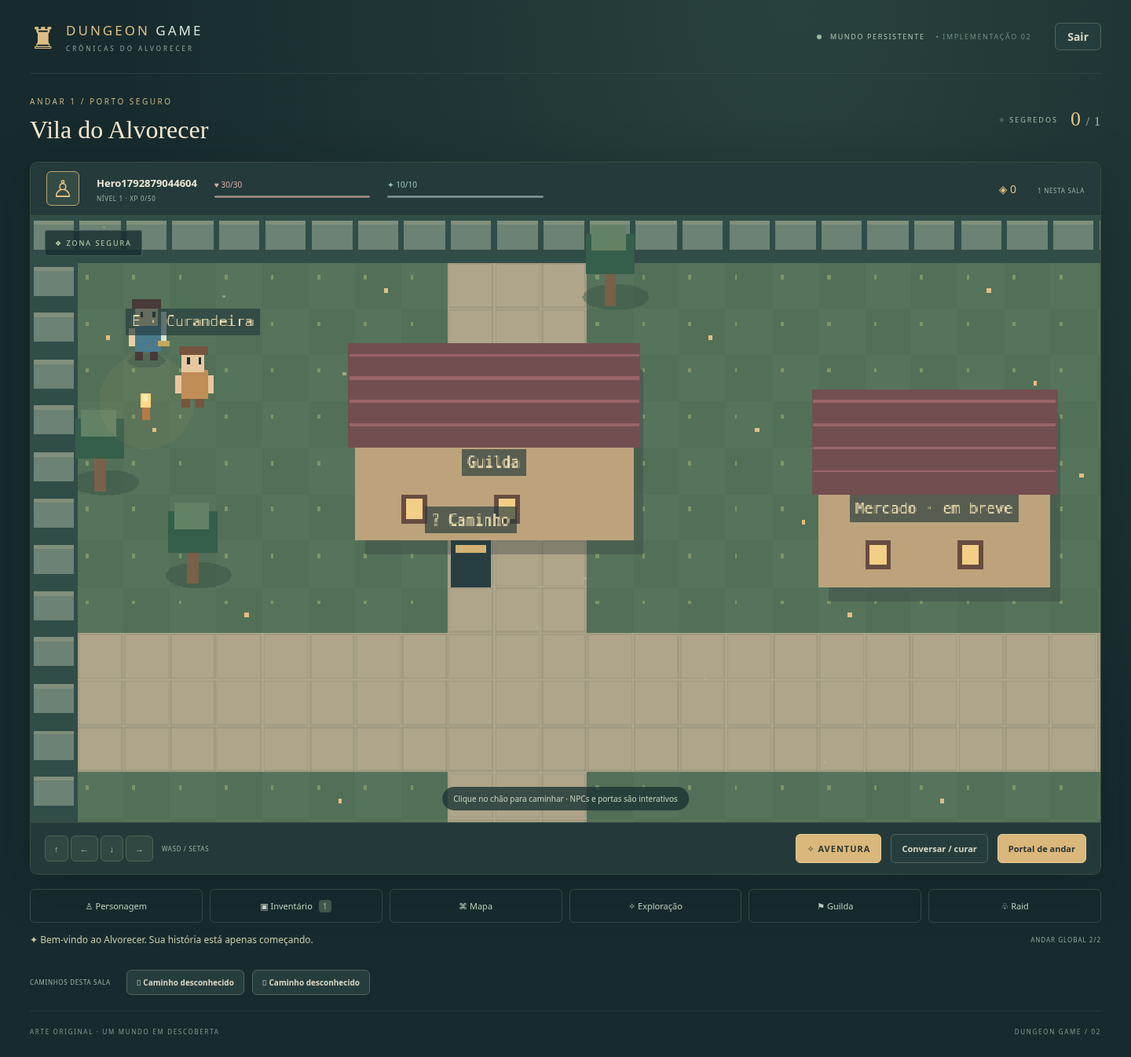
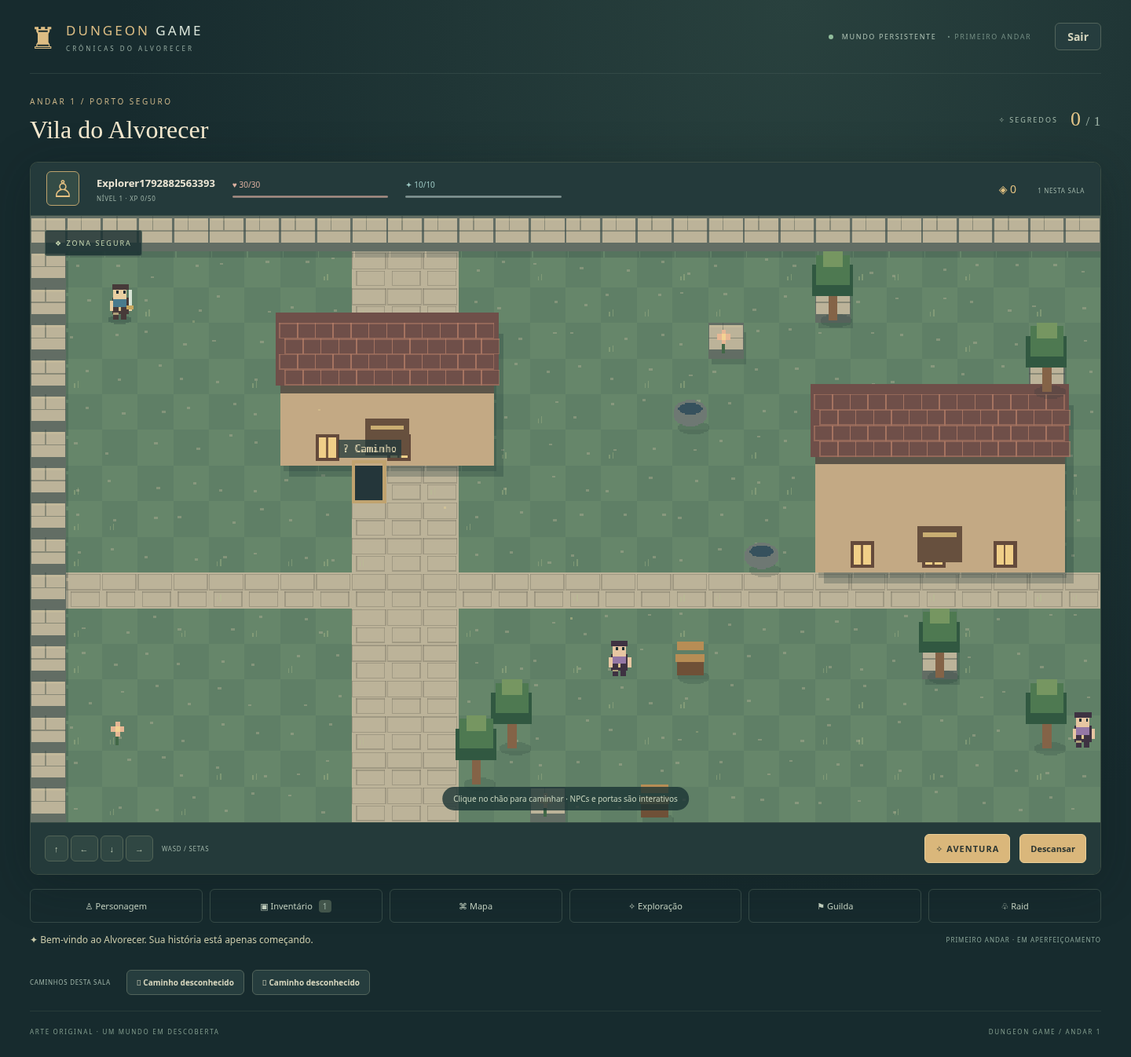
docs: document first-floor balance, lifecycle and verified screenshots

diff --git a/README.md b/README.md
@@ -1,31 +1,41 @@
-# Torre RPG
+# Dungeon Game — primeiro andar
 
-Protótipo de RPG persistente com FastAPI, PostgreSQL, React/TypeScript, Phaser e um cliente Discord. Arte original desenhada com formas pixeladas. Um backend controla todas as regras e os dois clientes consultam os mesmos personagens.
+RPG persistente com FastAPI, PostgreSQL, React/TypeScript, Phaser e cliente Discord. Esta versão aperfeiçoa exclusivamente o **primeiro andar**. Não expande andares superiores nem raids. Arte e sprites originais gerados pelo projeto, sem assets das referências comerciais.
 
-## Windows: executar
+## Windows: executar ou atualizar
 
-Instale Git e Docker Desktop com WSL2 e Docker Compose. No PowerShell:
+Com Git e Docker Desktop/WSL2 instalados, dentro do checkout:
 
 ```powershell
-git clone https://github.com/Lucassilvatech/Dungeon-game.git
-cd Dungeon-game
-Copy-Item .env.example .env
+git pull origin main
+if (!(Test-Path .env)) { Copy-Item .env.example .env }
 docker compose up --build -d
 ```
 
-Abra `http://localhost:8080`. API e documentação: `http://localhost:8000/docs`.
+Para uma instalação nova: clone `https://github.com/Lucassilvatech/Dungeon-game.git` e entre em `Dungeon-game` antes desses comandos.
 
-Novos personagens começam na **Vila do Alvorecer**, uma cidade segura. Personagens da versão 1 mantêm posição, XP, moedas, equipamento e combate; o antigo primeiro mapa passa a ser o Bosque das Lanternas. Não apague o volume para atualizar.
+Frontend: `http://localhost:8080`. API/documentação: `http://localhost:8000/docs`.
 
-1. Crie conta/personagem e equipe a espada na aba **Inventário**.
-2. Use WASD/setas ou clique no chão. Selecione portas, NPCs e inimigos no mapa ou os caminhos abaixo dele: o personagem caminha até o destino e o servidor valida cada passo.
-3. Entre na Guilda pela porta ao sul do prédio central. Converse com a curandeira e siga para o pátio de treinamento. O boneco não concede XP, itens ou moedas.
-4. Volte à cidade e siga pelo caminho leste. Explore Bosque → Trilha → Clareira → Santuário. Selecionar o chefe apresenta um aviso; o combate só começa após confirmar a tentativa solo.
-5. Use **Aventura** na cidade ou nas trilhas. O servidor escolhe uma sala procedural persistente ou a descoberta de uma entrada secreta. A chance padrão do segredo é 25%; não há garantia por tentativa.
-6. Depois da descoberta, a aba **Exploração** permite voltar à masmorra. Sua dificuldade é independente do andar. Derrota preserva pertences e descobertas; a primeira conclusão tem recompensa maior, e repetições não dão mais XP/loot relevante.
-7. Volte ao NPC da Guilda/curandeira e use a aba **Guilda** para reivindicar moedas do Tesouro. Derrotar o chefe de andar libera globalmente a cidade do segundo andar, acessível pelo portal da cidade.
+Não apague `.env` nem use `docker compose down -v` para atualizar. O startup aplica as migrações e faz seed idempotente; progresso e volume existente são preservados. A senha de exemplo é somente para desenvolvimento. A URL atual espera senha de banco sem caracteres reservados; use uma senha alfanumérica forte no deploy.
 
-Outros navegadores conectados na mesma sala aparecem via WebSocket. A aba **Mapa** mostra apenas salas e conexões descobertas. A aba **Raid** mantém convites e participantes; combate cooperativo ainda não está disponível.
+## Jogar no primeiro andar
+
+1. Crie conta/personagem; equipe a espada na aba **Inventário**.
+2. Use WASD/setas ou clique em chão, inimigo, NPC ou saída. As ações caminham visualmente até o destino, com passos validados no servidor.
+3. A cidade é segura. Entre na Guilda pela porta abaixo do prédio inicial. A **recepcionista**, atrás do balcão, recebe os registros de monstros; não há mais curadora espalhada nas salas. Use **Descansar** na cidade/Guilda para restaurar vida e energia.
+4. A Guilda leva ao pátio de treinamento. O boneco tem combate real, mas não dá XP, itens nem moedas. **Novo exercício** cria outra instância de treino de forma explícita.
+5. Siga os caminhos Cidade → Bosque → Trilha → Clareira. Agora há vários inimigos, com identidade, vida, movimento e morte persistentes. Um slime de nível 1 exige quatro ataques básicos de um iniciante com a espada. Defesas, habilidades e descanso importam.
+6. Inimigo derrotado executa morte/fade e desaparece. Não pode ser combatido novamente na mesma instância, nem ao recarregar. XP e loot são confirmados uma vez; moedas ficam como recompensa pendente.
+7. Volte à Guilda, aproxime-se da recepcionista e escolha **RESGATAR RECOMPENSAS**. A tela agrupa os registros por monstro e mostra o total. O Tesouro é debitado atomicamente e os registros são marcados como pagos.
+8. **Aventura** cria uma nova expedição procedural, com seed e tema próprios. Pode primeiro revelar um segredo existente. Expedições consecutivas usam temas diferentes; recarregar a mesma sala conserva as baixas. Uma nova aventura cria outros inimigos, não ressuscita os anteriores.
+
+Materiais se agrupam em stacks com limite por definição (cristais: 99). Equipamentos mantêm IDs individuais. O inventário mostra quantidade, capacidade e descrição no tooltip.
+
+## Conteúdo
+
+Cidade 52×36; Guilda 38×28; treinamento 32×24; salas comuns 34×26; combate 40×28. Expedições variam entre 32×24 e 44×30, com pedra/musgo, ruínas/vegetação, cristais/ossos ou entreposto de madeira. O chefe e o segredo existentes permanecem; a prioridade desta entrega é a qualidade do primeiro andar. Funcionalidade legada de andares superiores não foi expandida e não faz parte do novo fluxo.
+
+[Capturas](docs/screenshots) · [Regras desta versão](docs/FIRST_FLOOR.md) · [Arquitetura](docs/ARCHITECTURE.md) · [Desenvolvimento/testes](docs/DEVELOPMENT.md) · [Roadmap](docs/ROADMAP.md).
 
 ```powershell
 docker compose ps
@@ -33,35 +43,16 @@ docker compose logs backend
 docker compose down
 ```
 
-O volume `tower_data` conserva o banco; não use `down -v` se quiser manter personagens. A migração e o seed idempotente executam no startup do backend. O saldo inicial só é aplicado ao criar o Tesouro, nunca a cada reinício. A senha de exemplo é apenas para desenvolvimento; use uma senha alfanumérica forte no deploy (a URL atual não codifica caracteres reservados).
+`down` conserva o volume. Migração desta etapa: **11ac6a18a976**, que adiciona instâncias de inimigos, geração de encontros e stacks; consolida materiais sem perder quantidades e preserva equipamentos, saldos, contas e combates ativos. Faça backup dos dados importantes antes de atualizar.
 
-## Discord (opcional)
+## Discord e limites atuais
 
-No Discord Developer Portal, crie uma aplicação/bot e convide-o com scopes `bot` e `applications.commands`. Não precisa de intents privilegiados. Preencha `DISCORD_TOKEN` e uma chave aleatória `DISCORD_SERVICE_KEY` em `.env`; nunca publique esses valores. Recrie o backend após configurar a chave:
+O bot continua usando o mesmo backend e personagem. Configure `DISCORD_TOKEN` e uma chave aleatória `DISCORD_SERVICE_KEY` apenas em `.env`, nunca no Git. No Developer Portal convide o bot com scopes `bot` e `applications.commands`, sem intents privilegiados. Execute:
 
 ```powershell
 docker compose --profile discord up --build -d
 ```
 
-No navegador, gere um código e use `/vincular codigo:...` no bot em até 5 minutos. Depois `/personagem`, `/status`, `/inventario` e `/mapa` consultam dados reais. Códigos são de uso único. Não há criação paralela de personagens pelo Discord. Os demais comandos ainda não estão disponíveis. Sincronização global de comandos pode demorar no Discord.
+Na aba Personagem, gere código de cinco minutos e use `/vincular` no bot; `/personagem`, `/status`, `/inventario` e `/mapa` consultam dados reais. A conexão externa depende das credenciais e não foi validada nesta entrega.
 
-## Capturas verificadas
-
-[Cidade](docs/screenshots/city.png) · [Guilda](docs/screenshots/guild.png) · [Treinamento](docs/screenshots/training.png) · [Mobile](docs/screenshots/mobile.png). Capturadas do jogo em execução no Chromium.
-
-## Atualizar uma instalação existente
-
-```powershell
-git pull origin main
-docker compose up --build -d
-```
-
-As migrações Alembic `f2a7deb6dbfd` (salas/descobertas/raids) e `d348cc807194` (integridade de proprietário procedural) atualizam o banco sem recriá-lo. Faça backup antes de atualizar dados importantes. Preserve `.env` e o volume existente; nunca use `down -v` para atualizar.
-
-## Estado e limites
-
-Implementados: base da versão 1, cidade, Guilda e treinamento, salas conectadas, pathfinding visual, sprites/animações originais, câmera suave, aventuras, três templates procedurais por seed, segredo persistente com bestiário e primeira conclusão, chefe em sala própria, formação de raids e presença visual via WebSocket. O segundo andar tem cidade demonstrativa.
-
-Parciais: raid é um lobby persistente de até quatro participantes, **sem combate coletivo**; presença funciona num único processo FastAPI, sem broker para múltiplos workers; animações são provisórias geradas em runtime e substituíveis por spritesheets. Monstros continuam sendo encontros pessoais, não inimigos globais compartilhados. Coleta de recursos, contratos reservados, mercado, profissões e mentoria não estão implementados.
-
-Veja [desenvolvimento](docs/DEVELOPMENT.md), [arquitetura](docs/ARCHITECTURE.md), [salas](docs/ROOM_SYSTEM.md), [segredos](docs/SECRET_DUNGEONS.md) e [roadmap](docs/ROADMAP.md). Antes de exposição pública: TLS, limites de requisições, recuperação/revogação de sessões e observabilidade. A conexão com o Discord externo continua dependendo das credenciais; seus dados e vínculo são verificados por testes HTTP.
+Combate ainda é individual por alvo. A lista de instâncias prepara encontros com grupos, mas combate contra vários alvos simultâneos e raids coletivas não estão implementados. Presença visual usa um único worker; exige broker antes de escalar. Coleta, contratos, mercado e economia avançada permanecem futuros. Antes de exposição pública, completar TLS, rate limiting e gestão de sessões. O bundle Phaser ainda merece otimização.

diff --git a/docs/FIRST_FLOOR.md b/docs/FIRST_FLOOR.md
@@ -1,0 +1,58 @@
+# Primeiro andar: regras e implementação
+
+## Combate
+
+Parâmetros centrais em `balance.py` e Settings:
+
+```text
+base = ataque + floor(max(nível - 1, 0) / 2)
+dano = clamp(base + bônus_habilidade - defesa - bônus_guarda, mínimo, máximo)
+```
+
+Valores iniciais: dano mínimo 2, máximo 999, habilidade +5 por 2 de energia, guarda +4 defesa. `DAMAGE_MIN`, `DAMAGE_MAX`, `SKILL_BONUS`, `GUARD_BONUS` podem ser definidos no ambiente; as definições de espécie ficam centralizadas em ENEMIES. A defesa do jogador é aplicada ao ataque do inimigo, e a defesa do inimigo ao ataque do jogador. O bônus de equipamento vem de ItemDefinition.power, não de um valor enviado pelo cliente. As estatísticas dos monstros não escalam artificialmente com o jogador.
+
+| Espécie | Nível | HP | Ataque | Defesa | XP |
+|---|---:|---:|---:|---:|---:|
+| Slime | 1 | 24 | 6 | 2 | 30 |
+| Batedor | 2 | 30 | 7 | 3 | 40 |
+| Guardião | 3 | 60 | 9 | 3 | 100 |
+| Sentinela secreta | 8 | 90 | 14 | 5 | primeira conclusão: 100 |
+| Boneco | 1 | 24 | 0 | 2 | 0 |
+
+Iniciante: força 5 + espada 3 − defesa 2 = **6 de dano**; slime exige 4 ataques. Ele revida com 6 − defesa 2 = 4 por turno e, em três respostas, tira 12 HP. Sem espada, o combate exige mais ações. Um batedor nível 2 é mais perigoso. Guardar reduz dano mas ainda respeita o mínimo; não é uma pausa infinita segura. Boneco é exceção explícita e não causa dano. Chefe exige preparação; o teste de vitória usa personagem de nível recomendado e habilidades, não o antigo iniciante.
+
+## Identidade, morte e migração
+
+EnemyInstance tem ID único, proprietário, sala, geração, spawn_key, espécie, estatísticas e posição. Estados: ALIVE → IN_COMBAT → DYING → DEAD. IDLE/WANDER são estados ambientais adicionais. A instância de encontro é pessoal; o multiplayer visual não transforma esses inimigos em um combate compartilhado.
+
+A transação do golpe final bloqueia personagem/inimigo, confirma a vida zero, grava evento de morte, XP, loot e registro da Guilda, e termina em DEAD. DYING é uma etapa transacional; clientes nunca podem iniciar outro combate durante/depois dela. A chave única `death:<enemy_id>` e o índice parcial de uma vitória por inimigo reforçam idempotência. Dois ataques finais simultâneos resultam em uma vitória e uma rejeição.
+
+O frontend anima apenas o alvo atingido: hurt, frame de morte, fade/recuo por cerca de 700 ms e destruição do sprite. Não anima todos os NPCs como mortos nem recria o inimigo quando o fade acaba. Reconectar encontra DEAD e não renderiza o morto como vivo. O tile deixa de bloquear passagem.
+
+Histórico anterior à migração é reconciliado na primeira leitura: vitória legada vira inimigo morto; combate ativo é vinculado sem perder HP/turno. Direitos monetários anteriores continuam resgatáveis. Uma derrota do jogador não concede recompensas e devolve o inimigo sobrevivente a ALIVE, permitindo nova tentativa. A derrota na masmorra secreta continua sem perdas de equipamento, moeda ou progresso.
+
+## Stacks e loot
+
+ItemDefinition possui stackable e max_stack_size; Item mantém quantity, proprietário, custódia e ID. Apenas stacks compatíveis na mochila, não equipados, recebem novos itens. Preenchem-se pilhas existentes antes de criar outras. Exemplo: limite 99, 90 existentes +20 recebidos → 99 e 11. O limite é configurável por definição. Armas são não empilháveis e conservam identidades individuais.
+
+`add_item` é interno, executado sob lock do personagem e com referência idempotente. O evento de morte chama loot uma vez. A migração consolida materiais já existentes, preservando a soma e sem fundir equipamentos. Custódias externas não são alteradas. Nenhuma quantidade de loot é escolhida pelo navegador.
+
+## Guilda
+
+Só a recepcionista da Guilda, por proximidade validada no backend, paga recompensas. Interagir mostra grupos/quantidades e total pendente; não cura automaticamente nem cria moedas. `POST /guild/claim` paga o lote atomicamente: débito do Tesouro, crédito do personagem, ledger por combate e marca de pago. Sem orçamento, tudo reverte e os registros continuam pendentes. O endpoint individual legado também exige a recepção. Treino não gera registro nem loot/XP.
+
+A cidade e a Guilda oferecem descanso explícito, gratuito e somente fora de combate. Não há NPC curadora nas salas comuns, procedurais ou de combate. A recepcionista e os NPCs sociais são figuras distintas; os NPCs secundários têm movimento visual decorativo, sem serviços falsos.
+
+## Procedural e instâncias
+
+`layouts.py`: ROOM_SIZES, ENEMY_DENSITY, THEMES, DECORATIONS e generate(kind, seed). Temas originais: moss_stone, wild_ruins, crystal_bones, abandoned_wood. Variam dimensões, obstáculos, piso, objetos, densidade e spawns. Um RNG local garante reprodução por seed. A região inicial, entradas e saídas ficam reservadas, e flood-fill valida áreas navegáveis antes de posicionar inimigos. Temas consecutivos são diferentes.
+
+Cada Aventura procedural cria uma Room com UUID e seed persistente; a chave UUID da requisição impede uma segunda criação por replay. O histórico permanece registrado. Ler estado, inventário, trocar cliente ou reconectar não muda a geração. Treinamento só reinicia por `Novo exercício`; masmorras secretas só criam outra tentativa ao entrar novamente a partir de fora. Os mortos da tentativa anterior não são reutilizados para pagar novas recompensas.
+
+A IA muda IDLE/WANDER em baixa frequência (`WANDER_INTERVAL`, padrão 4 s), apenas ao observar a sala, sem loop global. Mantém raio de duas casas da origem e evita obstáculos, saídas, jogador e outros inimigos. Congela em combate e para definitivamente em DEAD. O Phaser interpola os movimentos; não decide posições de gameplay.
+
+## Eventos e limites
+
+Eventos persistentes: ENEMY_SPAWNED, ENEMY_COMBAT_STARTED, ENEMY_DAMAGED, ENEMY_DIED, ENEMY_REMOVED, ITEM_DROPPED, ITEM_ADDED, GUILD_REWARD_REGISTERED, GUILD_REWARD_CLAIMED e ROOM_GENERATED. `/state` retorna os últimos eventos do personagem e a projeção atual. O frontend usa essa projeção para morte/movimento e eventos para feedback de recebimento de item. Não existe entrega garantida a serviços externos; projeções permanecem a fonte autoritativa após reconexão.
+
+Não foram expandidos andares superiores, combate de raid, economia avançada ou profissões. Combate multi-alvo ainda é futuro: instâncias e fórmulas já são separadas e a sala retorna uma coleção, mas a batalha atual seleciona um alvo. Coleta de recursos continua apenas metadado, sem simular coleta.

diff --git a/docs/ROADMAP.md b/docs/ROADMAP.md
@@ -1,15 +1,14 @@
-# Roadmap após implementação 2
+# Roadmap: primeiro andar antes de expandir a Torre
 
-Entregue nesta etapa: migração aditiva, salas/cidade/Guilda/treino, trajetos e transições, sprites originais e animações, câmera e HUD compactos, Aventura procedural determinística, segredo sem spoilers, derrota sem perdas, conclusão única e recompensa reduzida, chefe separado, lobby de raid e presença WebSocket. Os critérios de backend estão cobertos por testes; a conexão Discord externa segue pendente de credenciais.
+Entregue em 0.3: inimigos persistentes sem respawn indevido, golpe final idempotente, morte/fade/remoção visual, wandering autoritativo de baixa frequência, fórmula de dano, materiais empilháveis com limite, recompensa em lote pela recepcionista, ausência de curadora nas salas, salas amplas e novos temas/layouts por seed. Treino e persistência foram preservados.
 
-1. **Combate cooperativo real**: reservar encontro para raid, validar presença/eligibilidade, ordem de turnos coletiva, reconectar e recompensar participantes uma única vez. Não reutilizar combates pessoais como se fossem compartilhados.
-2. **Presença distribuída**: broker, expiração de presença e testes entre workers antes de aumentar processos FastAPI.
-3. **Conteúdo**: novas masmorras com múltiplas subsalas, tabelas e bestiário mais rico; coleta real e layouts procedurais renováveis com limites e auditoria; rotas de NPCs.
-4. **Validação Discord**: convidar bot real e consultar dados do mesmo personagem; depois expor Aventura/viagem/raids pelo backend já existente, sem duplicar regras.
-5. **Segurança**: TLS, rate limit, revogação/recuperação de sessões, logs estruturados, backups e monitoramento; teste de carga.
-6. **Mercado**: custódia, compra atômica com imposto, expiração e renovação; duas compras simultâneas devem produzir só uma venda.
-7. **Guilda econômica**: contratos com orçamento reservado, filiais, NPCs com estoques e orçamentos reais.
-8. **Profissões e mentoria**: progressão, consumo de materiais, moedas vinculadas e ranking auditável.
-9. **Banco Central**: indicadores e regras de emissão aprovadas; sem empréstimos/juros.
+Próximos passos pequenos:
 
-O segundo andar segue demonstrativo. Não há economia NPC avançada, raids em combate, MMO distribuído ou todas as profissões nesta etapa.
+1. Validar balanceamento do primeiro andar com jogadores: tempo por combate, retorno à Guilda, risco por espécie e uso de energia; alterar parâmetros a partir de resultados.
+2. Refinar arte original, sinalização de caminhos, áudio opcional e interação da Guilda. Melhorar seleção/navegação em dispositivos móveis.
+3. Implementar encontros com grupos de inimigos: participantes/seleção de alvo/ordem de turnos, preservando a recompensa única por instância. Não declarar o lobby de raid como combate coletivo.
+4. Coleta real com consumo/estoques e auditoria; contratos pequenos com orçamento reservado.
+5. Broker de presença antes de múltiplos workers, limites de requisições, revogação de sessões, TLS e telemetria; otimizar bundle Phaser.
+6. Validar bot em Discord externo com credenciais próprias; adicionar ações pelo mesmo backend quando tiverem fluxo estável no navegador.
+
+Andares superiores, raids avançadas, mercado completo, Banco Central automático, mentoria, muitas profissões e endgame continuam fora do escopo atual. O conteúdo legado não foi apagado; não deve orientar novas implementações até o primeiro andar estar consolidado.

diff --git a/docs/DEVELOPMENT.md b/docs/DEVELOPMENT.md
@@ -59,4 +59,14 @@ No PowerShell, para uma captura em lugar específico: `$env:SMOKE_SCREENSHOT = "
 
 Para verificar persistência operacional, pare e suba a stack com `docker compose down` e `docker compose up -d` sem `-v`, e compare personagem, inventário, salas descobertas e raid. Reinício limpa conexões presenciais, não as posições no banco. Os clientes reconectam automaticamente.
 
-Resultados verificados nesta entrega: **20 testes PostgreSQL passaram**, `alembic check` sem divergências, build TypeScript/Vite e imagens Docker concluídos, fluxo Chromium completo até aviso do chefe, formação de raid e desbloqueio global passou. Um ciclo real `compose down`/`up` com o volume preservado manteve personagens, itens, descobertas/codex, raids/participantes e Tesouro idênticos. Há um aviso de depreciação da biblioteca TestClient; o bundle Phaser ainda exige otimização de tamanho. Nenhuma conexão externa Discord foi declarada validada.
+Resultados históricos da implementação 2 (0.2): **20 testes PostgreSQL passaram**, `alembic check` sem divergências, build TypeScript/Vite e imagens Docker concluídos, fluxo Chromium completo até aviso do chefe, formação de raid e desbloqueio global passou. Um ciclo real `compose down`/`up` com o volume preservado manteve personagens, itens, descobertas/codex, raids/participantes e Tesouro idênticos. Há um aviso de depreciação da biblioteca TestClient; o bundle Phaser ainda exige otimização de tamanho. Nenhuma conexão externa Discord foi declarada validada.
+
+## Regressão do primeiro andar 0.3
+
+Execute a suite PostgreSQL normalmente. Ela agora cobre morte persistente/rejeição de novo combate, golpe final concorrente com XP/loot/registro únicos, stack idempotente/capacidade configurável/overflow, equipamento separado, resgate só pela recepcionista, rollback de orçamento, geração de mapas navegáveis e wandering limitado. O teste de migração também conserva equipamento/combate/saldo e consolida material legado 90+20 em 99+11. Testes históricos foram adaptados à maior distância e ao novo nível do chefe, preservando verificações de integridade; progressão a outro andar não é o foco desta suite.
+
+O smoke Chromium agora percorre cidade/Guilda/treino/sala comum, confirma combate em quatro turnos, rejeição de morto, inventário, resgate pela recepcionista, reconexão, dois temas procedurais distintos e wandering recebido do servidor. As capturas atuais estão em docs/screenshots. Use `CHROMIUM_PATH` para Chromium instalado ou `npx playwright install chromium` fora da nuvem quando necessário.
+
+Dimensões/densidades/temas ficam em layouts.py. Alterações em conteúdo persistido existente exigem migração; o seed não sobrescreve mapas nem renova Tesouro. `DAMAGE_MIN`, `DAMAGE_MAX`, `SKILL_BONUS`, `GUARD_BONUS` e `WANDER_INTERVAL` podem ser configurados no ambiente. Nenhum segredo deve ser commitado.
+
+Validação da 0.3: **34 testes passaram**, com um aviso de depreciação do TestClient; `alembic check` sem divergências. TypeScript/Vite e imagens Docker compilaram. O Chromium confirmou cidade/Guilda/treino, layout mobile, quatro turnos contra slime, desaparecimento/rejeição de morto, inventário, resgate e reconexão, dois temas procedurais e wandering. Após `compose down`/`up` sem apagar volumes, personagens, stacks/definições, inimigos mortos, combates, ledger, descobertas, raids e Tesouro permaneceram idênticos.

diff --git a/docs/ROOM_SYSTEM.md b/docs/ROOM_SYSTEM.md
@@ -4,9 +4,9 @@
 
 `POST /rooms/exits/{id}` exige origem atual, proximidade de uma casa, ausência de combate e autorização de proprietário. Cada passo via `/move` valida limites, obstáculos, prédios, NPC e monstros da sala. O cliente usa BFS apenas para sugerir o trajeto, envia passos sequenciais e interrompe em erro; não define posições finais livremente. A entrada persiste sala, andar, posição e descoberta na mesma transação. O fade visual dura 220 ms.
 
-`POST /adventure` recebe um UUID de requisição, não recebe seed nem loot. Sob lock do personagem, uma repetição da mesma chave não cria novas salas/recompensas. O servidor escolhe o resultado com aleatoriedade segura. Um segredo já encontrado deixa de competir com a geração procedural. Há uma sala procedural persistente por personagem/andar para limitar crescimento de dados. Ela pode ser revisitada; a geração de novos layouts sob demanda é futura.
+`POST /adventure` recebe um UUID de requisição, não recebe seed nem loot. Sob lock do personagem, uma repetição da mesma chave não cria novas salas/recompensas. O servidor escolhe o resultado com aleatoriedade segura. Um segredo já encontrado deixa de competir com a geração procedural. Cada aventura procedural cria uma instância com UUID. A seed e as baixas dessa instância sobrevivem à reconexão; outra aventura cria uma sala diferente, com outro tema. O histórico fica preservado no banco.
 
-`RoomTemplate` contém grove, ruins, pond; ENEMY_SPAWN_TABLE, RESOURCE_SPAWN_TABLE e ENVIRONMENT_THEMES centralizam configuração. `template(seed)` é determinística e usa RNG local, preservando passagens. A geração armazena seed, inimigo, recurso demonstrativo, tema e dificuldade. Recursos são metadados para futura coleta; não há botão que finja coletar. O cliente não sorteia conteúdo.
+Na versão 0.3, `layouts.py` centraliza ROOM_SIZES, ENEMY_DENSITY, THEMES e DECORATIONS. Os temas são moss_stone, wild_ruins, crystal_bones e abandoned_wood. `template(seed)` é determinística e usa RNG local, preservando passagens. A geração armazena seed, inimigo, recurso demonstrativo, tema e dificuldade. Recursos são metadados para futura coleta; não há botão que finja coletar. O cliente não sorteia conteúdo.
 
 `POST /raids` exige descoberta do boss; `/raids/join` usa convite aleatório e lock de raid para o limite de quatro. Lock de personagem impede entrar em múltiplos lobbies ativos. `/raids/leave` remove membro ou fecha a formação quando o líder sai. Convite e membros sobrevivem a reinício. Iniciar combate cooperativo está pendente; a interface informa isso e mantém tentativa solo explícita.
 

diff --git a/docs/SECRET_DUNGEONS.md b/docs/SECRET_DUNGEONS.md
@@ -1,6 +1,6 @@
 # Masmorras secretas — contém spoilers de desenvolvimento
 
-A demonstração tem a Cripta da Maré Antiga (id interno secret), no primeiro andar, recomendada para nível 8. HP 65 e ataque 14 são configuração própria, sem fórmula baseada no andar. É possível configurar nível 999 sem alterar floor_id. Novas masmorras devem ser definidas no conteúdo/seed por migração aditiva.
+A demonstração tem a Cripta da Maré Antiga (id interno secret), no primeiro andar, recomendada para nível 8. HP 90 e ataque 14 são configuração própria, sem fórmula baseada no andar. É possível configurar nível 999 sem alterar floor_id. Novas masmorras devem ser definidas no conteúdo/seed por migração aditiva.
 
 `SECRET_CHANCE` (0–1, padrão .25) controla descoberta em Aventura. A descoberta fica em RoomState por personagem e gera evento único. Antes dela, `/state` só apresenta contagem found/total; não retorna nome, codex, nível, inimigo ou prêmio. Tentar entrar por ID sem descoberta responde 404. O atlas de outro jogador permanece independente.
 
@@ -11,3 +11,5 @@ Derrota encerra a tentativa e envia à cidade com vida/energia restauradas: não
 Parâmetros provisórios: primeira recompensa 250 moedas, repetição 1; primeira vitória dá 100 XP e um cristal; repetições dão zero XP e nenhum cristal. `SECRET_FIRST_REWARD` e `SECRET_REPEAT_REWARD` são não negativos e configuráveis. Sem orçamento, o direito permanece pendente, como na versão 1. Não há emissão de moedas na vitória.
 
 A instância é pessoal, não uma masmorra compartilhada com combate de raid. Esse é o próximo passo, junto com várias salas internas e bestiário mais detalhado. A sala demonstrativa tem apenas seu chefe. Tests cobrem spoilers, acesso indevido, persistência, derrota, primeira conclusão, repetição e conservação monetária.
+
+Na versão 0.3, inimigos mortos permanecem DEAD na geração atual. Nova entrada explícita a partir de fora inicia outra geração de tentativa, com IDs novos; atualizar a interface não reinicia o encontro. A conclusão permanente e a redução de recompensa são preservadas.

diff --git a/docs/GAME_DESIGN.md b/docs/GAME_DESIGN.md
@@ -596,3 +596,9 @@ Identidade própria de pixel art acolhedora, sem sprites, mapas, UI ou animaçõ
 O mundo passa a Torre → Andar → Salas → Interiores. Cidade segura e maior, Guilda com recepção/curandeira/quadro e treino sem farm, caminhos descobertos, salas comuns e combate, Aventura autoritativa, templates com seed, segredo permanente sem spoilers no backend, dificuldade independente do andar, derrota sem perda, primeira conclusão relevante e repetição insignificante. Chefe é descoberto em sala própria, sem combate automático, com aviso e tentativa solo opcional. Raid tem formação persistente; combate coletivo não está entregue.
 
 Posições e descoberta sobrevivem a reinícios. WebSocket apresenta outros jogadores conectados na mesma sala, mantendo validação de ações no backend comum ao navegador e Discord. A integração Discord conserva conta/personagem e apresenta o nome da sala/contagens sem expor segredos. Detalhes de implementação e limites estão em WORLD_SYSTEM, ROOM_SYSTEM e SECRET_DUNGEONS.
+
+# Prioridade vigente: qualidade do primeiro andar
+
+A partir da 0.3, expansão vertical fica suspensa como foco de desenvolvimento. Salas maiores, guilda acolhedora com balcão/recepcionista, NPCs sociais, objetos originais e câmera mais afastada orientam a apresentação. A referência visual fornecida é conceitual: nenhum sprite, móvel, mapa ou troféu específico foi copiado.
+
+Ciclo obrigatório por instância: ALIVE → IN_COMBAT → DYING → DEAD; morto não é alvo nem paga duas vezes. Wandering leve é decidido no servidor. Materiais empilham por definição/capacidade; equipamentos mantêm IDs. Moedas de monstros só são pagas pela recepcionista por registros pendentes. Procedural varia tema, geometria, dimensões e densidade por seed; reconexão conserva mortos. Veja FIRST_FLOOR.md para regras implementadas e fórmulas. Grupos de inimigos em combate simultâneo ainda estão pendentes.

diff --git a/docs/ECONOMY.md b/docs/ECONOMY.md
@@ -21,3 +21,7 @@ Oferta inicial definitiva, impostos, taxas, preços de serviços, limites de emi
 ## Implementação 2
 
 Treinamento não concede XP, loot nem moedas. Masmorra secreta congela o direito de recompensa por combate: primeira conclusão 250 moedas/100 XP/cristal; repetições 1 moeda/zero XP/zero cristais, parâmetros monetários configuráveis. A contabilidade continua transferência do Tesouro, nunca emissão durante vitória. Uma tentativa derrotada em segredo não penaliza saldo, itens ou XP. Ajustes definitivos de balanceamento permanecem abertos.
+
+## Primeiro andar 0.3
+
+Pagamento centralizado na recepcionista, não na antiga curadora das salas. O resgate em lote é transacional e auditado por ledger; falta de orçamento não consome registros. Loot material usa stacks e morte por instância é única. Inimigos não reaparecem por recarregar/reconectar. Novas expedições são o mecanismo explícito de conteúdo repetível; treino não concede moedas, XP ou itens. Nenhuma política monetária ou emissão adicional foi implementada.
